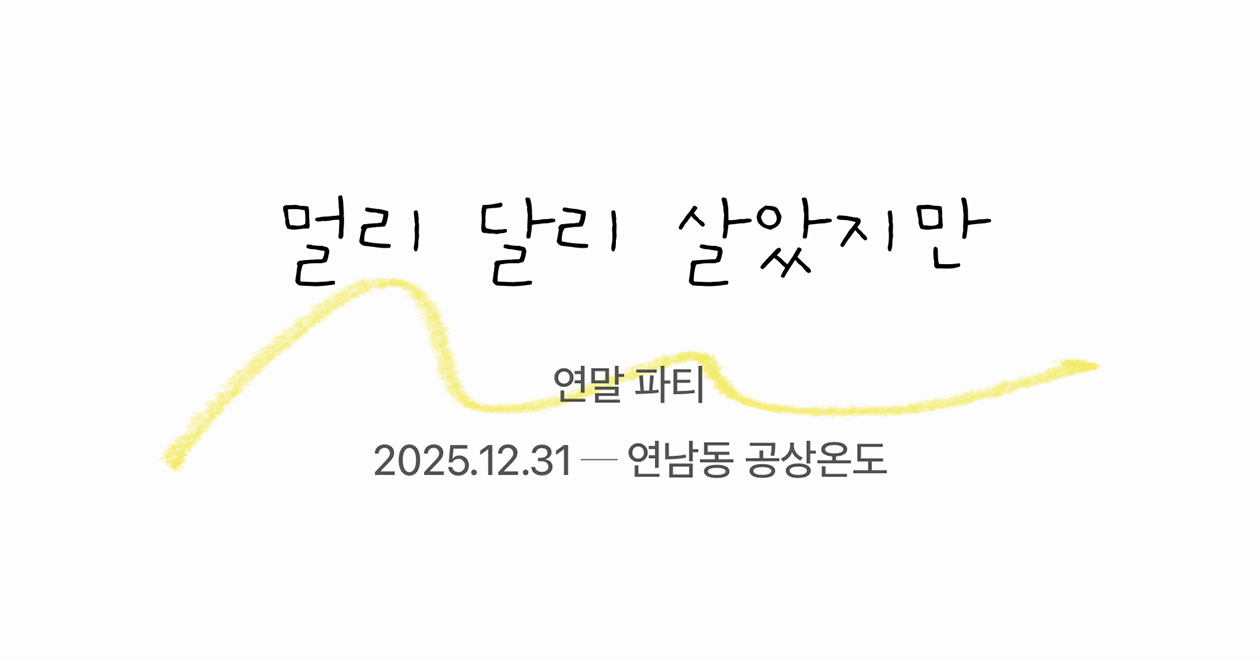
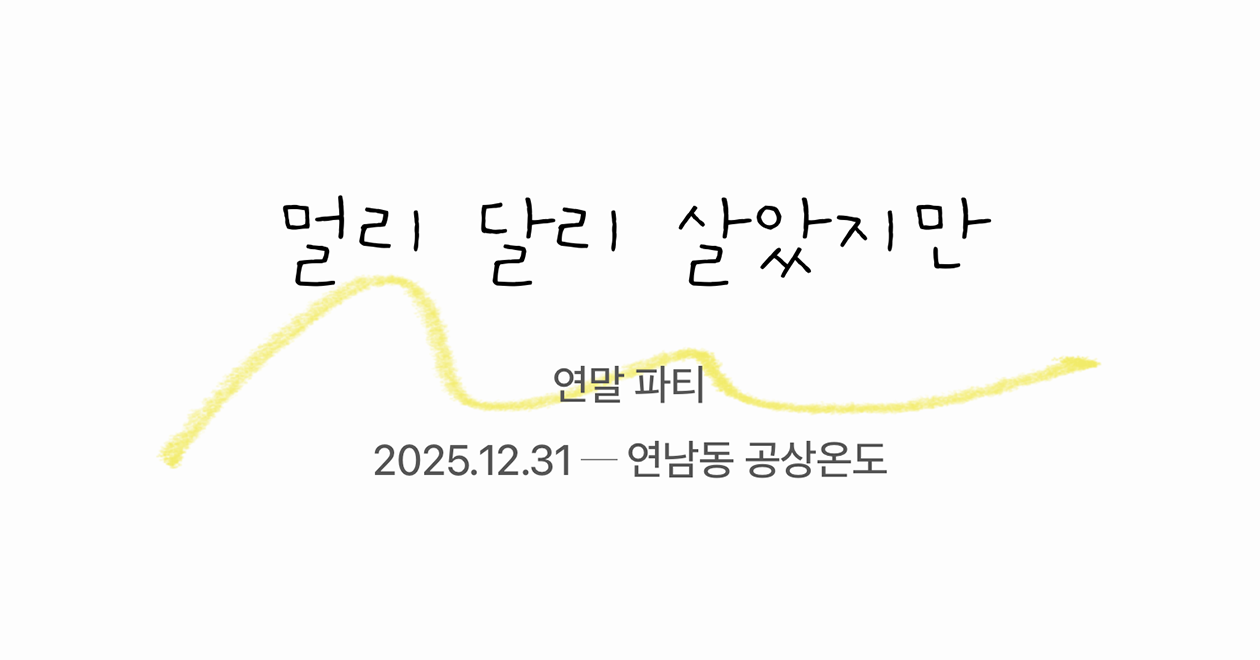
Update og.png and adjust image position in index.html
Replaced the og.png image and made minor adjustments to the width and position of doodle-2.png in index.html for improved layout alignment.

diff --git a/index.html b/index.html
@@ -106,7 +106,7 @@
         <div style="position: sticky; top: 0; display: flex; flex-direction: column; justify-content: center; align-items: center; min-height: 100lvh;">
           <div style="position: relative;">
             <div style="color: #000; letter-spacing: -0.027em; font-size: 40px; font-family: Gaegu, system-ui;">멀리 달리 살았지만</div>
-            <img width="383" height="82" style="position: absolute; left: -50px; bottom: -69px;" src="./images/doodle-2.png">
+            <img width="384" height="82" style="position: absolute; left: -51px; bottom: -69px;" src="./images/doodle-2.png">
           </div>
           <div style="position: relative; z-index: 1; margin-top: 24px; display: flex; flex-direction: column; justify-content: center; align-items: center; gap: 10px;">
             <div style="color: #555; letter-spacing: -0.02em; font-size: 17px; font-weight: 450;">연말 파티</div>
